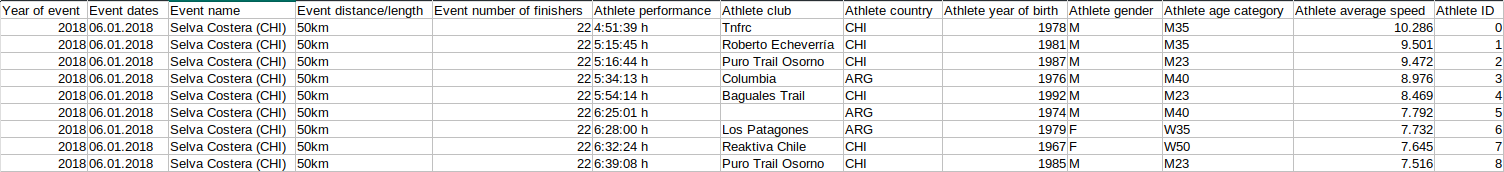
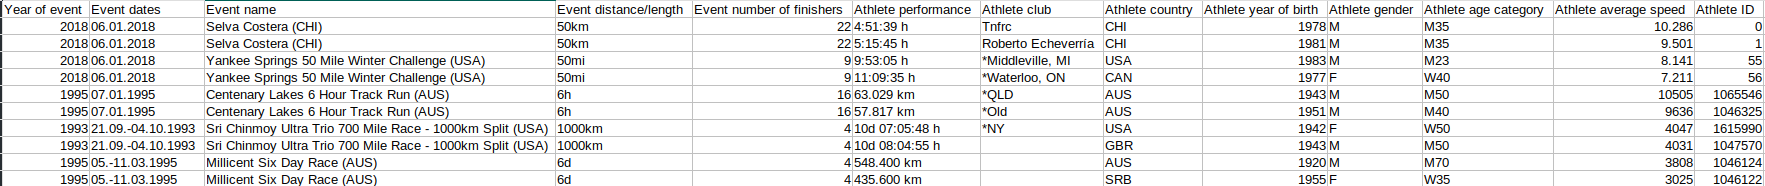
Starting set of questions

diff --git a/index.html b/index.html
@@ -22,7 +22,7 @@
 
 
 		<div class="reveal">
-			<div class="slides">
+			<div class="slides" style="font-size: 25px;">
 				<section>
 					<h2>ASVSP</h2>
 					<p>Aleksandar Stojanović</p>
@@ -32,7 +32,7 @@
 						<h2>Motivacija</h2>
 					</section>
 					<section>
-						<p>Analiziranje podataka vezanih za ucinak ucesnika ultramaratona, kao i analiza performansi trkaca u realnom vremenu</p>
+						<p>Analiziranje podataka vezanih za učinak učesnika ultramaratona, kao i analiza performansi trkača u realnom vremenu</p>
 					</section>
 				</section>
 				<section>
@@ -40,7 +40,7 @@
 						<h2>Batch obrada</h2>
 					</section>
 					<section>
-						<p>Analiza učinka učesnika ultramaratona u periodu od 1995. do 2018.</p>
+						<p>Analiza učinka učesnika ultramaratona u periodu od 1798. do 2022.</p>
 					</section>
 					<section>
 						<h3>Uzorak podataka</h3>
@@ -50,36 +50,39 @@
 							 </a>
 						</p>
 						<pre style="
-							font-size: 16px;
+							font-size: 12px;
 						">
 							<code>
-								Year of event,Event dates,Event name,Event distance/length,Event number of finishers,Athlete performance,Athlete club,Athlete country,Athlete year of birth,Athlete gender,Athlete age category,Athlete average speed,Athlete ID
-								2018,06.01.2018,Selva Costera (CHI),50km,22,4:51:39 h,Tnfrc,CHI,1978.0,M,M35,10.286,0
-								2018,06.01.2018,Selva Costera (CHI),50km,22,5:15:45 h,Roberto Echeverría,CHI,1981.0,M,M35,9.501,1
-								2018,06.01.2018,Selva Costera (CHI),50km,22,5:16:44 h,Puro Trail Osorno,CHI,1987.0,M,M23,9.472,2
-								2018,06.01.2018,Selva Costera (CHI),50km,22,5:34:13 h,Columbia,ARG,1976.0,M,M40,8.976,3
-								2018,06.01.2018,Selva Costera (CHI),50km,22,5:54:14 h,Baguales Trail,CHI,1992.0,M,M23,8.469,4
-								2018,06.01.2018,Selva Costera (CHI),50km,22,6:25:01 h,,ARG,1974.0,M,M40,7.792,5
-								2018,06.01.2018,Selva Costera (CHI),50km,22,6:28:00 h,Los Patagones,ARG,1979.0,F,W35,7.732,6
-								2018,06.01.2018,Selva Costera (CHI),50km,22,6:32:24 h,Reaktiva Chile,CHI,1967.0,F,W50,7.645,7
-								2018,06.01.2018,Selva Costera (CHI),50km,22,6:39:08 h,Puro Trail Osorno,CHI,1985.0,M,M23,7.516,8
+Year of event,Event dates,Event name,Event distance/length,Event number of finishers,Athlete performance,Athlete club,Athlete country,Athlete year of birth,Athlete gender,Athlete age category,Athlete average speed,Athlete ID
+2018,06.01.2018,Selva Costera (CHI),50km,22,4:51:39 h,Tnfrc,CHI,1978.0,M,M35,10.286,0
+2018,06.01.2018,Selva Costera (CHI),50km,22,5:15:45 h,Roberto Echeverría,CHI,1981.0,M,M35,9.501,1
+2018,06.01.2018,Yankee Springs 50 Mile Winter Challenge (USA),50mi,9,9:53:05 h,"*Middleville, MI",USA,1983.0,M,M23,8.141,55
+2018,06.01.2018,Yankee Springs 50 Mile Winter Challenge (USA),50mi,9,11:09:35 h,"*Waterloo, ON",CAN,1977.0,F,W40,7.211,56
+1995,07.01.1995,Centenary Lakes 6 Hour Track Run (AUS),6h,16,63.029 km,*QLD,AUS,1943.0,M,M50,10505.0,1065546
+1995,07.01.1995,Centenary Lakes 6 Hour Track Run (AUS),6h,16,57.817 km,*Old,AUS,1951.0,M,M40,9636.0,1046325
+1993,21.09.-04.10.1993,Sri Chinmoy Ultra Trio 700 Mile Race - 1000km Split (USA),1000km,4,10d 07:05:48 h,*NY,USA,1942.0,F,W50,4047.0,1615990
+1993,21.09.-04.10.1993,Sri Chinmoy Ultra Trio 700 Mile Race - 1000km Split (USA),1000km,4,10d 08:04:55 h,,GBR,1943.0,M,M50,4031.0,1047570
+1995,05.-11.03.1995,Millicent Six Day Race (AUS),6d,4,548.400 km,,AUS,1920.0,M,M70,3808.0,1046124
+1995,05.-11.03.1995,Millicent Six Day Race (AUS),6d,4,435.600 km,,SRB,1955.0,F,W35,3025.0,1046122
+
 							</code>
 						</pre>
 						<img height="150px" src="imgs/batch_sample_table.png">
+						<p style="font-size: 12px;">U trkama koje su vremenski ograničene, 'performance' kolona sadrži broj prettrčanih kilometara, a 'average speed' je broj pređenih kilometara po satu</p>
 					</section>
-					<section>
+					<section style="font-size: 25px;">
 						<h3>Pitanja na koja treba odgovoriti</h3>
 						<ol>
-							<li></li>
-							<li></li>
-							<li></li>
-							<li></li>
-							<li></li>
-							<li></li>
-							<li></li>
-							<li></li>
-							<li></li>
-							<li></li>
+							<li>Maratoni sa najvećom prosečnom brzinom</li>
+							<li>Popularnost maratona u odnosu na njihovu dužinu</li>
+							<li>Prosečna brzina po starosnoj dobi</li>
+							<li>Prosečna brzina po polu</li>
+							<li>Takmičari sa najboljim napretkom u prosečnoj brzini u karijeri</li>
+							<li>Države sa najvećim brojem takmičara</li>
+							<li>Takmičari sa najvećim brojem pređenih kilometara po maratonu</li>
+							<li>Raspodela takmičara po starosti</li>
+							<li>Takmičari sa najvećom pređenom kilometrazom u čitavoj karijeri</li>
+							<li>Najmasovniji maratoni</li>
 						</ol>
 					</section>
 				</section>
@@ -100,17 +103,17 @@
 						<pre style="
 							font-size: 16px;
 						">
-							<code>
-								Datetime;Latitude;Longitude;Altitude;Distance;HeartRate;Speed;Cadence;Watts
-								2020-10-10 10:01:56+00:00;61.49964236654341;23.759590834379196;97.80000305175781;0.0;123;1.437000036239624;None;None
-								2020-10-10 10:01:57+00:00;61.49965829215944;23.759586475789547;97.0;1.7899999618530273;124;1.7730000019073486;None;None
-								2020-10-10 10:01:58+00:00;61.499674301594496;23.75958220101893;97.5999984741211;3.5299999713897705;126;1.7730000019073486;None;None
-								2020-10-10 10:01:59+00:00;61.49969274178147;23.759587733075023;97.80000305175781;5.599999904632568;127;1.7730000019073486;None;None
-								2020-10-10 10:02:00+00:00;61.49970766156912;23.759580943733454;98.0;7.239999771118164;129;1.781999945640564;None;None
-								2020-10-10 10:02:01+00:00;61.49972274899483;23.75957926735282;98.0;8.890000343322754;130;1.7730000019073486;None;None
-								2020-10-10 10:02:02+00:00;61.49974160827696;23.75957884825766;98.19999694824219;10.979999542236328;131;1.7640000581741333;None;None
-								2020-10-10 10:02:03+00:00;61.49975895881653;23.75958069227636;98.0;12.920000076293945;133;1.7730000019073486;None;None
-								2020-10-10 10:02:04+00:00;61.49978343397379;23.759581446647644;98.19999694824219;15.619999885559082;135;1.7910000085830688;None;None
+							<code style="font-size: 12px;">
+Datetime;Latitude;Longitude;Altitude;Distance;HeartRate;Speed;Cadence;Watts
+2020-10-10 10:01:56+00:00;61.49964236654341;23.759590834379196;97.80000305175781;0.0;123;1.437000036239624;None;None
+2020-10-10 10:01:57+00:00;61.49965829215944;23.759586475789547;97.0;1.7899999618530273;124;1.7730000019073486;None;None
+2020-10-10 10:01:58+00:00;61.499674301594496;23.75958220101893;97.5999984741211;3.5299999713897705;126;1.7730000019073486;None;None
+2020-10-10 10:01:59+00:00;61.49969274178147;23.759587733075023;97.80000305175781;5.599999904632568;127;1.7730000019073486;None;None
+2020-10-10 10:02:00+00:00;61.49970766156912;23.759580943733454;98.0;7.239999771118164;129;1.781999945640564;None;None
+2020-10-10 10:02:01+00:00;61.49972274899483;23.75957926735282;98.0;8.890000343322754;130;1.7730000019073486;None;None
+2020-10-10 10:02:02+00:00;61.49974160827696;23.75957884825766;98.19999694824219;10.979999542236328;131;1.7640000581741333;None;None
+2020-10-10 10:02:03+00:00;61.49975895881653;23.75958069227636;98.0;12.920000076293945;133;1.7730000019073486;None;None
+2020-10-10 10:02:04+00:00;61.49978343397379;23.759581446647644;98.19999694824219;15.619999885559082;135;1.7910000085830688;None;None
 							</code>
 						</pre>
 						<img src="imgs/stream_sample_table.png">
@@ -118,11 +121,11 @@
 					<section>
 						<h3>Pitanja na koja treba odgovoriti</h3>
 						<ol>
-							<li></li>
-							<li></li>
-							<li></li>
-							<li></li>
-							<li></li>
+							<li>Poređenje trenutnog i prosečnog pace-a (prikaz oba i da li je trenutni u padu, rastu, stagnaciji)</li>
+							<li>Pretpostavljeno vreme do završetka trke (dužina staze uneta na početku)</li>
+							<li>Ukupan vertikalni uspon/pad</li>
+							<li>Određivanje HeartRate zona u toku trke</li>
+							<li>Uticaj uspona na brzinu  (% za koliko se smanjuje)</li>
 						</ol>
 					</section>
 				</section>
